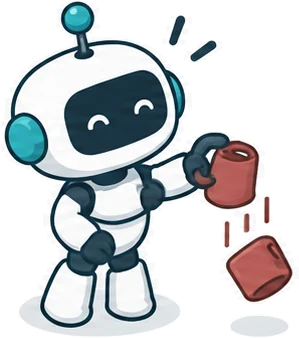
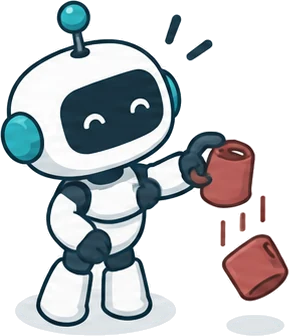
Update survey figures and robot art from the latest Overleaf version
- Figures 1, 2, 3 and 6 re-rendered from the current Overleaf build: the
  redesigned figures (numbered panels, larger robots) replace the
  10 October versions. Figure 1 is now 1600x962.
- The 13 robot illustrations replaced with the current transparent PNGs
  from the Overleaf project.
- Figure 2 and 3 captions follow the manuscript.
- render-survey.mjs now reads every image's width and height from the file
  itself, so the page's size attributes cannot drift from the images.

diff --git a/index.html b/index.html
@@ -176,7 +176,7 @@
                 <p class="block-eyebrow"><span>01</span>Overview</p>
                 <h3 class="block-title">From better behavior to better learning</h3>
               </div>
-              <img class="block-art" src="assets/art/knowledge.webp" width="308" height="360" loading="lazy" decoding="async" alt="" />
+              <img class="block-art" src="assets/art/knowledge.webp" width="305" height="360" loading="lazy" decoding="async" alt="" />
             </div>
             <div class="survey-intro">
               <div class="survey-abstract">
@@ -188,14 +188,14 @@
                 <ol class="condition-list">
                   <li><img class="condition-art" src="assets/art/signal.webp" width="356" height="360" loading="lazy" decoding="async" alt="" /><div><strong>Signal specificity</strong><span>Does the feedback address what the learner still lacks?</span></div></li>
                   <li><img class="condition-art" src="assets/art/recipient.webp" width="360" height="309" loading="lazy" decoding="async" alt="" /><div><strong>Recipient compatibility</strong><span>Can the receiving component use the change?</span></div></li>
-                  <li><img class="condition-art" src="assets/art/shift.webp" width="336" height="360" loading="lazy" decoding="async" alt="" /><div><strong>Round-to-round shift</strong><span>Does its value survive later changes in behavior and in the system?</span></div></li>
-                  <li><img class="condition-art" src="assets/art/continuation.webp" width="249" height="360" loading="lazy" decoding="async" alt="" /><div><strong>Physical continuation</strong><span>Can informative trials continue under sensing, reset, safety, and resource limits?</span></div></li>
+                  <li><img class="condition-art" src="assets/art/shift.webp" width="331" height="360" loading="lazy" decoding="async" alt="" /><div><strong>Round-to-round shift</strong><span>Does its value survive later changes in behavior and in the system?</span></div></li>
+                  <li><img class="condition-art" src="assets/art/continuation.webp" width="243" height="360" loading="lazy" decoding="async" alt="" /><div><strong>Physical continuation</strong><span>Can informative trials continue under sensing, reset, safety, and resource limits?</span></div></li>
                 </ol>
                 <p>This view explains why successful data collection may yield poor teaching data, and why more accurate prediction may fail to improve control.</p>
               </aside>
             </div>
             <figure class="survey-figure">
-              <img src="assets/readme/figures/figure-1.png" width="1600" height="623" loading="lazy" decoding="async" alt="Figure 1. Learning behavior and learning how to improve it." />
+              <img src="assets/readme/figures/figure-1.png" width="1600" height="962" loading="lazy" decoding="async" alt="Figure 1. Learning behavior and learning how to improve it." />
               <figcaption><strong>Figure 1. Learning behavior and learning how to improve it.</strong> The upper loop applies a fixed recipe; the lower route retains repair knowledge that guides later learning. The dashed return asks whether that knowledge also improves how the next revision is made.</figcaption>
             </figure>
           </div>
@@ -205,7 +205,7 @@
                 <p class="block-eyebrow"><span>02</span>Research questions</p>
                 <h3 class="block-title">What the survey asks</h3>
               </div>
-              <img class="block-art" src="assets/art/shift.webp" width="336" height="360" loading="lazy" decoding="async" alt="" />
+              <img class="block-art" src="assets/art/shift.webp" width="331" height="360" loading="lazy" decoding="async" alt="" />
             </div>
             <ol class="question-grid">
               <li><span class="question-id">RQ1</span><strong>What limits the next improvement?</strong><p>Is useful experience missing, or is progress limited by supervision, optimization, action generation, interfaces, or retention?</p></li>
@@ -220,11 +220,11 @@
                 <p class="block-eyebrow"><span>03</span>The review at a glance</p>
                 <h3 class="block-title">Four uses, four conditions, four claims</h3>
               </div>
-              <img class="block-art" src="assets/art/outcome.webp" width="299" height="338" loading="lazy" decoding="async" alt="" />
+              <img class="block-art" src="assets/art/outcome.webp" width="289" height="336" loading="lazy" decoding="async" alt="" />
             </div>
             <figure class="survey-figure">
-              <img src="assets/readme/figures/figure-2.png" width="1600" height="823" loading="lazy" decoding="async" alt="Figure 2. The review at a glance." />
-              <figcaption><strong>Figure 2. The review at a glance.</strong> The rows give the four uses of an acquired change (Sections 3–6), the four conditions for carrying it into the next round (Section 8), and the four claims a comparison can establish (Section 7).</figcaption>
+              <img src="assets/readme/figures/figure-2.png" width="1600" height="874" loading="lazy" decoding="async" alt="Figure 2. The review at a glance." />
+              <figcaption><strong>Figure 2. The review at a glance.</strong> The rows give the four uses of an acquired change (Sections 3–6), the four conditions for carrying it into the next round, and the four claims a comparison can establish. Illustrations show the grasping robot’s four breakdowns from Section 1.</figcaption>
             </figure>
             <p class="evidence-note"><strong>What current evidence shows.</strong> Existing experiments demonstrate behavioral gains, some later-learning benefits, and local procedure improvements, with detailed hardware evidence concentrated in manipulation. Isolating the causal chain that recursion requires is the next step.</p>
           </div>
@@ -234,7 +234,7 @@
                 <p class="block-eyebrow"><span>04</span>Four uses of acquired change</p>
                 <h3 class="block-title">Where an acquired change goes next</h3>
               </div>
-              <img class="block-art" src="assets/art/retain.webp" width="334" height="360" loading="lazy" decoding="async" alt="" />
+              <img class="block-art" src="assets/art/retain.webp" width="332" height="360" loading="lazy" decoding="async" alt="" />
             </div>
             <div class="use-grid">
               <article class="use-card">
@@ -250,21 +250,21 @@
                 <dl><div><dt>Retained change</dt><dd>Dynamics or world model</dd></div><div><dt>Immediate use</dt><dd>Plan or supply training experience</dd></div><div><dt>Principal claim</dt><dd>Better decisions or learning</dd></div></dl>
               </article>
               <article class="use-card">
-                <img class="use-art" src="assets/art/reuse.webp" width="360" height="351" loading="lazy" decoding="async" alt="" />
+                <img class="use-art" src="assets/art/reuse.webp" width="360" height="352" loading="lazy" decoding="async" alt="" />
                 <p class="use-chapter">§5 External knowledge</p>
                 <h4>Reuse and recovery</h4>
                 <dl><div><dt>Retained change</dt><dd>Memory, skill, contract, program</dd></div><div><dt>Immediate use</dt><dd>Retrieve, recover, or synthesize</dd></div><div><dt>Principal claim</dt><dd>Reusable execution knowledge</dd></div></dl>
               </article>
               <article class="use-card">
-                <img class="use-art" src="assets/art/procedure.webp" width="360" height="359" loading="lazy" decoding="async" alt="" />
+                <img class="use-art" src="assets/art/procedure.webp" width="360" height="360" loading="lazy" decoding="async" alt="" />
                 <p class="use-chapter">§6 Learning procedure updates</p>
                 <h4>Learning procedure</h4>
                 <dl><div><dt>Retained change</dt><dd>Collector, evaluator, editor, updater</dd></div><div><dt>Immediate use</dt><dd>Choose experience, judge, or construct updates</dd></div><div><dt>Principal claim</dt><dd>Better subsequent learning</dd></div></dl>
               </article>
             </div>
             <figure class="survey-figure">
-              <img src="assets/readme/figures/figure-3.png" width="1600" height="865" loading="lazy" decoding="async" alt="Figure 3. Four later uses of acquired change." />
-              <figcaption><strong>Figure 3. Four later uses of acquired change.</strong> Each column gives the retained change and its immediate use. Dashed arrows show secondary handoffs: a policy may become a collector, a model may supply judgments, and memory may guide an updater.</figcaption>
+              <img src="assets/readme/figures/figure-3.png" width="1600" height="862" loading="lazy" decoding="async" alt="Figure 3. Four later uses of acquired change." />
+              <figcaption><strong>Figure 3. Four later uses of acquired change.</strong> Each column gives the retained change and its immediate use (Table 3). Dashed arrows show secondary handoffs: a policy may become a collector, a model may supply judgments, and memory may guide an updater.</figcaption>
             </figure>
           </div>
           <div class="survey-block" id="survey-recursion" data-reveal data-chapter="Toward recursive self-improvement">
@@ -273,10 +273,10 @@
                 <p class="block-eyebrow"><span>05</span>Toward recursive self-improvement</p>
                 <h3 class="block-title">Testing the two links of recursion</h3>
               </div>
-              <img class="block-art" src="assets/art/revise.webp" width="353" height="360" loading="lazy" decoding="async" alt="" />
+              <img class="block-art" src="assets/art/revise.webp" width="350" height="360" loading="lazy" decoding="async" alt="" />
             </div>
             <figure class="survey-figure">
-              <img src="assets/readme/figures/figure-6.png" width="1600" height="790" loading="lazy" decoding="async" alt="Figure 6. Testing the two links of recursive self-improvement." />
+              <img src="assets/readme/figures/figure-6.png" width="1600" height="794" loading="lazy" decoding="async" alt="Figure 6. Testing the two links of recursive self-improvement." />
               <figcaption><strong>Figure 6. Testing the two links of recursive self-improvement.</strong> Top: does acquired repair knowledge make the reviser produce a better learning procedure on common new failures? Bottom: does a self-revision proposed with that knowledge beat one proposed with it frozen? The diagram specifies proposed comparisons, not reported results.</figcaption>
             </figure>
             <ul class="recursion-list">
@@ -292,7 +292,7 @@
                 <p class="block-eyebrow"><span>06</span>Open problems</p>
                 <h3 class="block-title">Six directions to start from</h3>
               </div>
-              <img class="block-art" src="assets/art/repair.webp" width="286" height="344" loading="lazy" decoding="async" alt="" />
+              <img class="block-art" src="assets/art/repair.webp" width="276" height="342" loading="lazy" decoding="async" alt="" />
             </div>
             <div class="problem-grid">
               <article class="problem-card">

diff --git a/README.md b/README.md
@@ -77,8 +77,8 @@ Select a card to jump directly to its section.
 
 ## The review at a glance
 
-<p align="center"><img src="assets/readme/figures/figure-2.png" width="900" alt="Figure 2. The review at a glance. The rows give the four uses of an acquired change (Sections 3–6), the four conditions for carrying it into the next round (Section 8), and the four claims a comparison can establish (Section 7)."></p>
-<p align="center"><sub><b>Figure 2. The review at a glance.</b> The rows give the four uses of an acquired change (Sections 3–6), the four conditions for carrying it into the next round (Section 8), and the four claims a comparison can establish (Section 7).</sub></p>
+<p align="center"><img src="assets/readme/figures/figure-2.png" width="900" alt="Figure 2. The review at a glance. The rows give the four uses of an acquired change (Sections 3–6), the four conditions for carrying it into the next round, and the four claims a comparison can establish. Illustrations show the grasping robot’s four breakdowns from Section 1."></p>
+<p align="center"><sub><b>Figure 2. The review at a glance.</b> The rows give the four uses of an acquired change (Sections 3–6), the four conditions for carrying it into the next round, and the four claims a comparison can establish. Illustrations show the grasping robot’s four breakdowns from Section 1.</sub></p>
 
 > [!NOTE]
 > **What current evidence shows.** Existing experiments demonstrate behavioral gains, some later-learning benefits, and local procedure improvements, with detailed hardware evidence concentrated in manipulation. Isolating the causal chain that recursion requires is the next step.
@@ -119,8 +119,8 @@ The same physical experience can leave very different kinds of change behind, an
 | **Reuse and recovery** | Memory, skill, contract, program | Retrieve, recover, or synthesize | Reusable execution knowledge | §5 External knowledge |
 | **Learning procedure** | Collector, evaluator, editor, updater | Choose experience, judge, or construct updates | Better subsequent learning | §6 Learning procedure updates |
 
-<p align="center"><img src="assets/readme/figures/figure-3.png" width="900" alt="Figure 3. Four later uses of acquired change. Each column gives the retained change and its immediate use. Dashed arrows show secondary handoffs: a policy may become a collector, a model may supply judgments, and memory may guide an updater."></p>
-<p align="center"><sub><b>Figure 3. Four later uses of acquired change.</b> Each column gives the retained change and its immediate use. Dashed arrows show secondary handoffs: a policy may become a collector, a model may supply judgments, and memory may guide an updater.</sub></p>
+<p align="center"><img src="assets/readme/figures/figure-3.png" width="900" alt="Figure 3. Four later uses of acquired change. Each column gives the retained change and its immediate use (Table 3). Dashed arrows show secondary handoffs: a policy may become a collector, a model may supply judgments, and memory may guide an updater."></p>
+<p align="center"><sub><b>Figure 3. Four later uses of acquired change.</b> Each column gives the retained change and its immediate use (Table 3). Dashed arrows show secondary handoffs: a policy may become a collector, a model may supply judgments, and memory may guide an updater.</sub></p>
 
 <p align="right"><sub><a href="#repository-guide">↑ Back to guide</a></sub></p>
 
